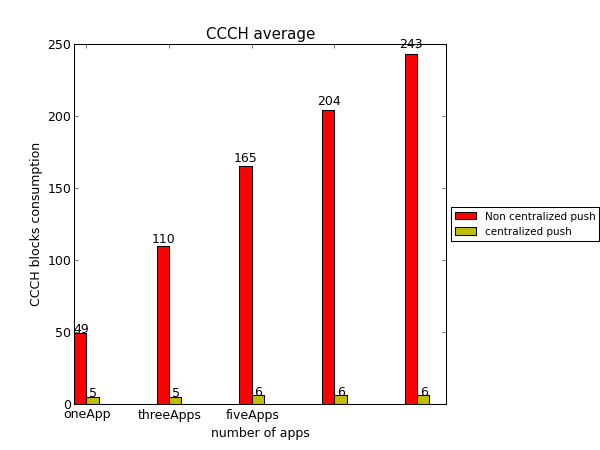
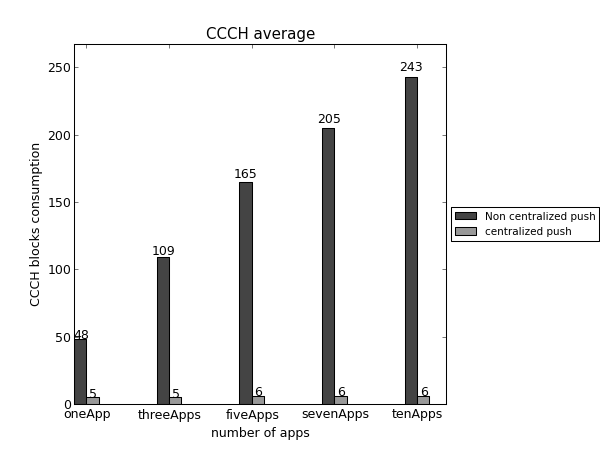
add: set ax y-lim

diff --git a/project/calModule/exportImg.py b/project/calModule/exportImg.py
@@ -24,16 +24,19 @@ def exportCCCHAvgToPNG(CCCHNonCenAvgs, CCCHCenAvgs):
 
         fig = plt.figure()
         ax = fig.add_subplot(111)
-        rects1 = ax.bar(ind, CCCHNonCenAvgs, width, color='r')
+        maxHeight = max(CCCHNonCenAvgs + CCCHCenAvgs)
+        ax.set_ylim(0, maxHeight*1.1)
+        rects1 = ax.bar(ind, CCCHNonCenAvgs, width, color='#444444')
 
-        rects2 = ax.bar(ind+width, CCCHCenAvgs, width, color='y')
+        rects2 = ax.bar(ind+width, CCCHCenAvgs, width, color='#999999')
     
+        
         plt.title("CCCH average")
         plt.xlabel('number of apps')
         plt.ylabel('CCCH blocks consumption')
         
         ax.set_xticks(ind+width)
-        ax.set_xticklabels(("oneApp", "threeApps", "fiveApps"))
+        ax.set_xticklabels(("oneApp", "threeApps", "fiveApps", "sevenApps", "tenApps"))
 
         fontP = FontProperties()
         fontP.set_size('small')
